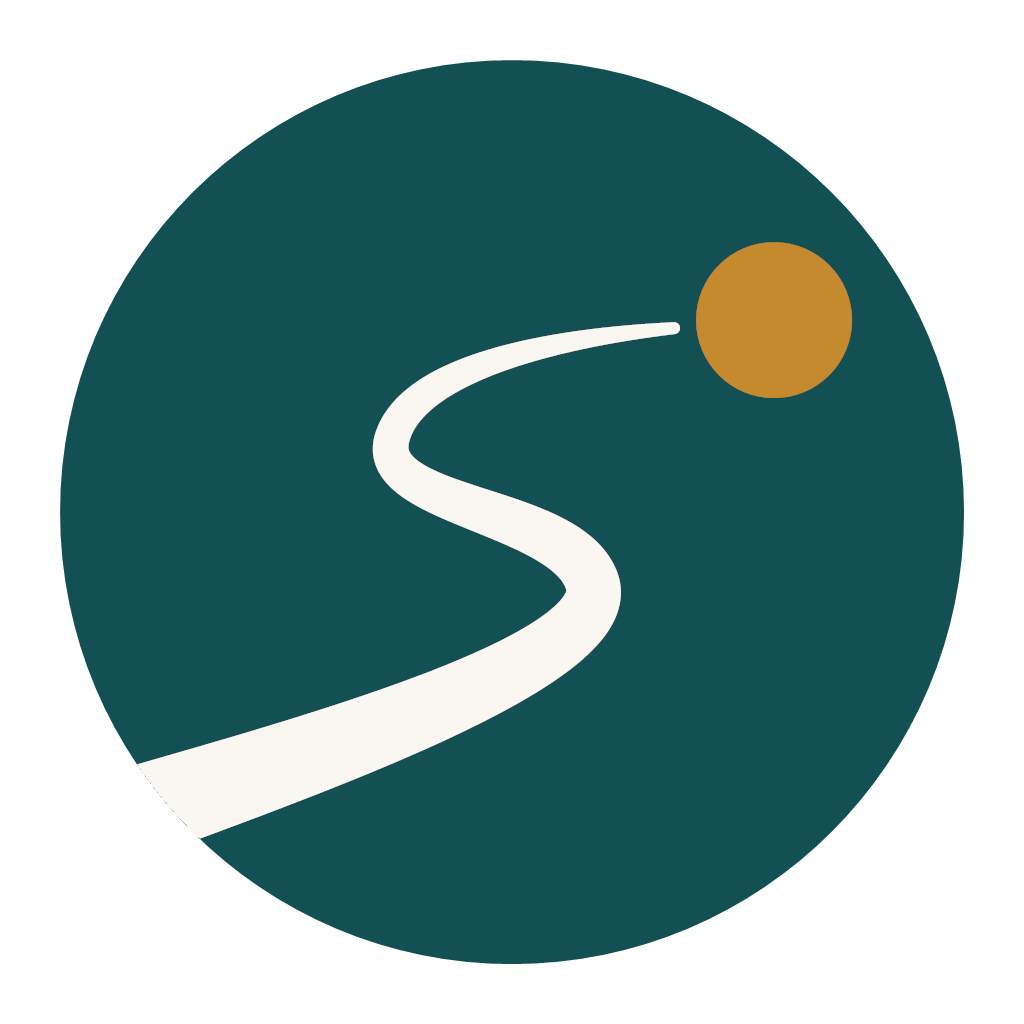
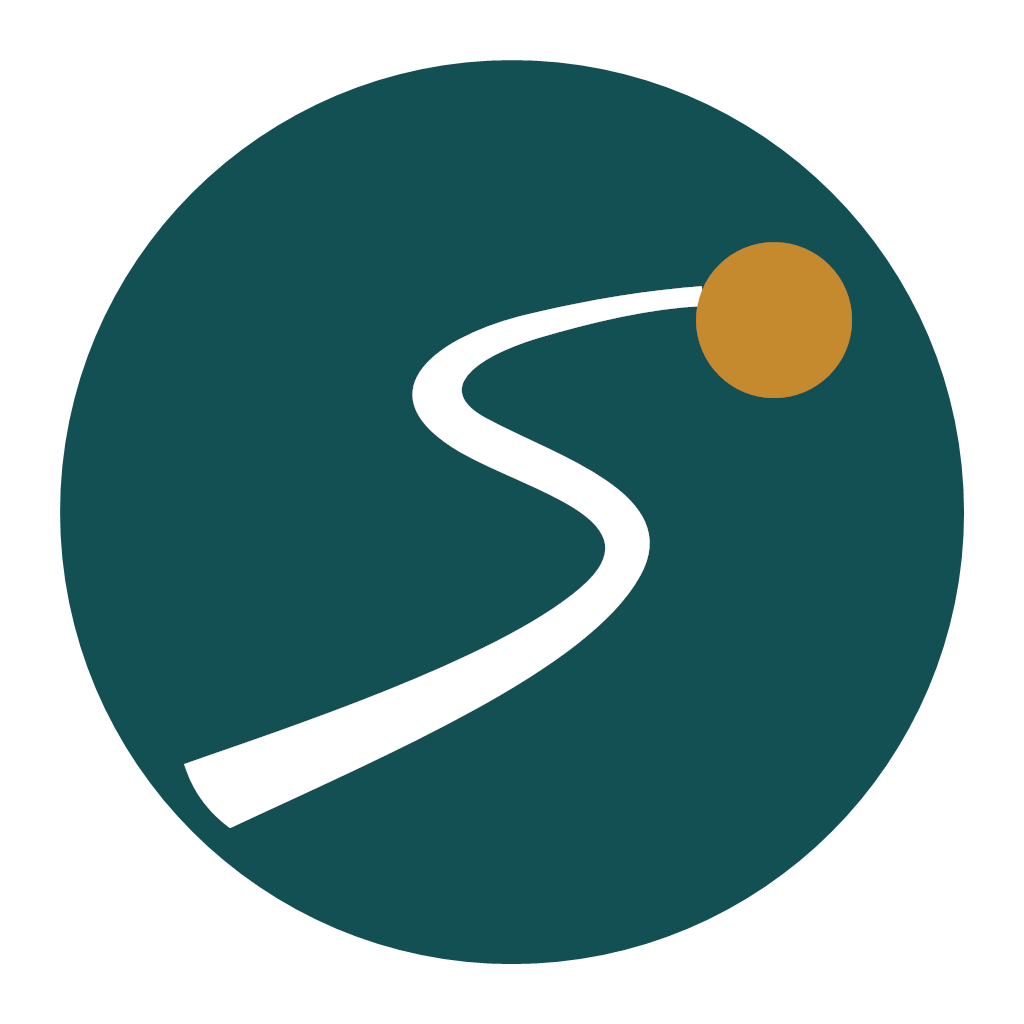
Actualiza encabezados e icono vectorial de Turinauta

diff --git a/app/src/main/java/com/unicauca/turinauta/core/designsystem/TurinautaSectionTitle.kt b/app/src/main/java/com/unicauca/turinauta/core/designsystem/TurinautaSectionTitle.kt
@@ -10,7 +10,6 @@ import androidx.compose.runtime.Composable
 import androidx.compose.ui.Alignment
 import androidx.compose.ui.Modifier
 import androidx.compose.ui.text.TextStyle
-import androidx.compose.ui.text.font.Font
 import androidx.compose.ui.text.font.FontFamily
 import androidx.compose.ui.text.font.FontWeight
 import androidx.compose.ui.res.painterResource
@@ -18,13 +17,11 @@ import androidx.compose.ui.unit.dp
 import androidx.compose.ui.unit.sp
 import com.unicauca.turinauta.R
 
-private val SectionTitleFont = FontFamily(Font(R.font.kalam_bold, weight = FontWeight.Bold))
-
 private val SectionTitleStyle = TextStyle(
-    fontFamily = SectionTitleFont,
-    fontWeight = FontWeight.Bold,
-    fontSize = 30.sp,
-    lineHeight = 38.sp,
+    fontFamily = FontFamily.SansSerif,
+    fontWeight = FontWeight.SemiBold,
+    fontSize = 24.sp,
+    lineHeight = 30.sp,
 )
 
 @Composable
@@ -36,9 +33,9 @@ fun TurinautaSectionTitle(title: String, modifier: Modifier = Modifier) {
     ) {
         Text(text = title, style = SectionTitleStyle, color = DeepTeal, modifier = Modifier.weight(1f))
         Image(
-            painter = painterResource(R.drawable.turinauta_header_mark),
+            painter = painterResource(R.drawable.turinauta_brand_mark),
             contentDescription = null,
-            modifier = Modifier.size(width = 44.dp, height = 38.dp),
+            modifier = Modifier.size(38.dp),
         )
     }
 }

diff --git a/app/src/main/java/com/unicauca/turinauta/core/designsystem/Illustrations.kt b/app/src/main/java/com/unicauca/turinauta/core/designsystem/Illustrations.kt
@@ -48,7 +48,7 @@ fun TurinautaLogoMark(
     contentDescription: String? = null,
 ) {
     Image(
-        painter = painterResource(R.drawable.turinauta_logo),
+        painter = painterResource(R.drawable.turinauta_brand_mark),
         contentDescription = contentDescription,
         modifier = modifier.size(size),
     )
